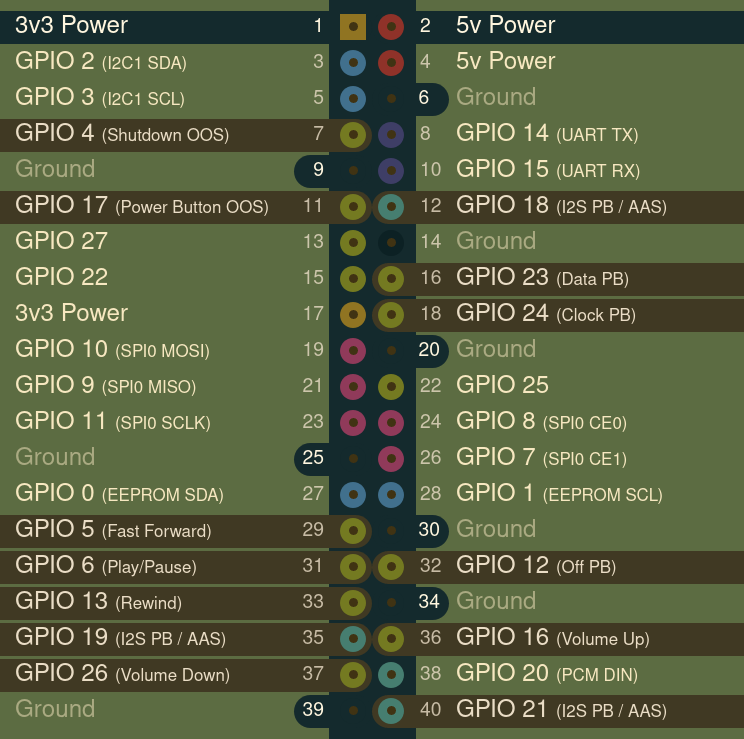
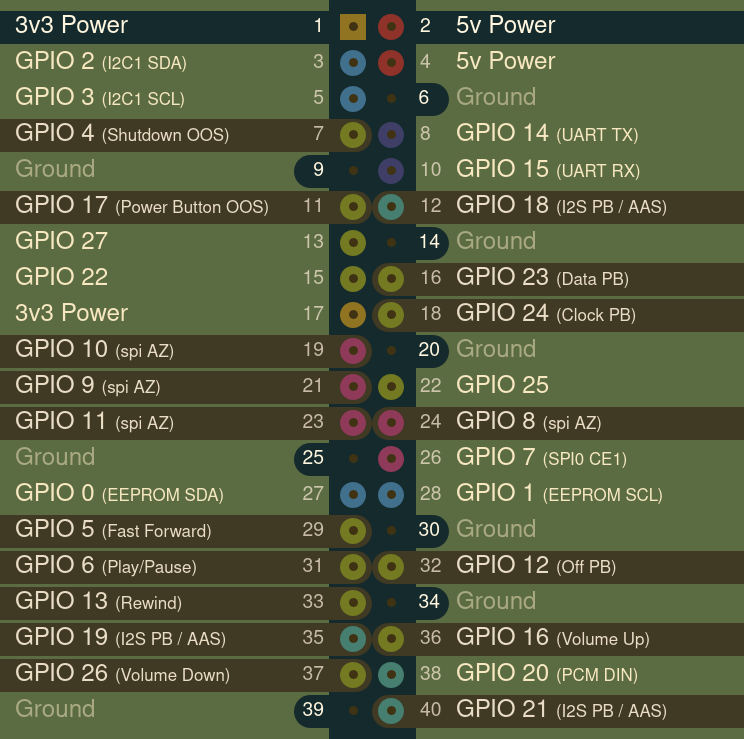
Add analog volume knob

Changed region(s): [[0.0, 0.4357, 1.0, 0.6225], [0.5565, 0.2801, 0.6183, 0.3735]]

diff --git a/stage2/04-pirate-radio/files/interface.py b/stage2/04-pirate-radio/files/interface.py
@@ -2,14 +2,16 @@
 physical interaction devices (buttons, LEDs...) and the software of the
 radio.
 """
+import asyncio
 from contextlib import contextmanager
 from signal import pause
 from subprocess import run
 
 import alsaaudio
+import pulsectl
 import simpleaudio as sa
 import systemd.daemon
-from gpiozero import Button
+from gpiozero import MCP3008, Button
 from mpd import MPDClient
 from mpd.base import CommandError
 
@@ -23,6 +25,8 @@ PHATBEAT_BUTTON_PLAY_PAUSE = 6
 PHATBEAT_BUTTON_VOLUME_UP = 16
 PHATBEAT_BUTTON_VOLUME_DOWN = 26
 PHATBEAT_BUTTON_ON_OFF = Button(12)
+
+POTENTIOMETER_VOLUME = MCP3008(0)
 
 SLEEP_TIMER_SOUND = "/usr/local/lib/radio-interface/sleep-timer.wav"
 
@@ -151,6 +155,23 @@ def shutdown(button):
     button.was_held = False
 
 
+async def volume():
+    """
+    Set the volume according to the potentiometer.
+    Gpiozero returns a float from 0 to 1 from the potentiometer.
+    It can be fed directly into pulse audio, 1 being the maximum
+    volume (above 1 is the soft boost).
+    """
+    # Create a client for Pulse Audio
+    pulse = pulsectl.Pulse("volume")
+    # Choose the sink we want to set the volume to
+    sink = pulse.sink_list()[0]
+    while True:
+        volume = POTENTIOMETER_VOLUME.value
+        pulse.volume_set_all_chans(sink, volume)
+        await asyncio.sleep(0.1)
+
+
 # Set the pins to which buttons are connected
 BUTTON_FAST_FORWARD = Button(PHATBEAT_BUTTON_FAST_FORWARD)
 BUTTON_REWIND = Button(PHATBEAT_BUTTON_REWIND)
@@ -168,6 +189,9 @@ BUTTON_VOLUME_DOWN.when_pressed = volume_down
 BUTTON_ON_OFF.when_held = sleep_timer
 BUTTON_ON_OFF.when_released = shutdown
 PHATBEAT_BUTTON_ON_OFF.when_pressed = shutdown
+
+# set pulseaudio volume to POTENTIOMETER_VOLUME.value
+asyncio.run(volume())
 
 # maintain the module loaded for as long the the interface is needed
 # without conuming resources

diff --git a/README.md b/README.md
@@ -1,4 +1,4 @@
-# Transistor [![Build Status](https://travis-ci.org/pirateradiohack/Transistor.svg?branch=master)](https://travis-ci.org/pirateradiohack/Transistor)
+# Transistor [![Build Status](https://api.travis-ci.com/pirateradiohack/Transistor.svg?branch=master)](https://travis-ci.com/github/pirateradiohack/Transistor)
 
 Transistor is a receiver for web radios. It takes the form of an image to be burnt onto an SD card. The image comprises an operating system and all the necessary software to stream internet radios on an embedded platform.  
 
@@ -8,6 +8,7 @@ The current hardware kit consists of the following:
 - An On / Off switch ([OnOff Shim](https://shop.pimoroni.com/products/onoff-shim))
 - A power supply / battery charger ([Adafruit PowerBoost 1000C](https://shop.pimoroni.com/products/onoff-shim))
 - A LiPo battery
+- A Raspio Analog Zero (optional, if you want to plug a potentiometer for the volume setting)
 - Physical buttons for the Raspberry Pi GPIO
 
 Features:
@@ -95,27 +96,31 @@ If you want to test the image locally, without the need to burn it to an SD card
 
 That should boot the image. You can then `ssh` into it on `localhost` on port 2222, and use port 80 on `localhost` port 2223.
 
-## Pinout
+## Hardware
 This is the detailed usage of the pins (thanks to https://pinout.xyz). This is mostly of interest when you want to connect the buttons.
 
 OOS stands for On Off Shim  
 PB stands for Phat Beat  
 AAS stands for Audio Amp Shim
+AZ stands for Raspio Analog Zero
 
 Since powers and grounds don't take names, here is their pinout:  
-- Power 1: PB / OOS
+- Power 1: PB / OOS / AZ
 - Power 2: PB / AAS / OOS
-- Ground 6: OOS
-- Ground 9: OOS
-- Ground 20: PB
-- Ground 25: PB / AAS
-- Ground 30: PB
-- Ground 34: PB
-- Ground 39: PB / AAS
+- Ground 6: OOS / AZ
+- Ground 9: OOS / AZ
+- Ground 14: AZ
+- Ground 20: PB / AZ
+- Ground 25: PB / AAS / AZ
+- Ground 30: PB / AZ
+- Ground 34: PB / AZ
+- Ground 39: PB / AAS / AZ
 
 ![Pinout](https://github.com/pirateradiohack/PiRadio/blob/master/Pinout.png)
 ![Pinout Legend](https://github.com/pirateradiohack/PiRadio/blob/master/Legend-Pinout.png)
 
+The first channel of the Raspio Analog Zero (channel 0) is expecting to receive a potentiometer to set the sound volume:
+plug the ends of the potentiometer to 3.3v and ground, then plug the wiper (usually found in the middle of the three tabs) into the first channel of the Analog Zero.
 
+## Contribution
 Issues and pull requests are welcome.
-
